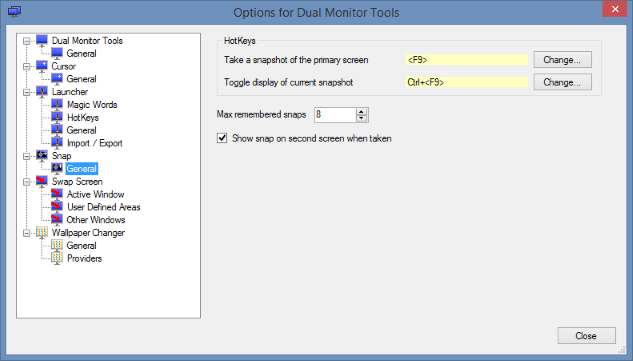
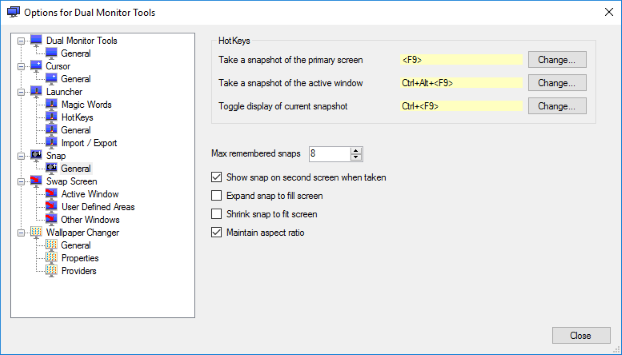
v2.2
Snap options reset when showing new snap
WallpaperChanger, if image not available, properties are cleared
Updated website

git-svn-id: svn://svn.code.sf.net/p/dualmonitortool/code/trunk@403 fb2ba5e6-08d8-4d4c-bdde-3d14dca355d2

Changed region(s): [[0.0, 0.0, 1.0, 1.0], [0.6415, 0.1239, 0.9469, 0.3408], [0.6415, 0.1549, 0.7026, 0.1859]]

diff --git a/Web/dmt_snap.html b/Web/dmt_snap.html
@@ -58,7 +58,7 @@
 	DMT Snap
 </p>
 
-<p>Snap allows you to capture the image on the primary monitor and display it on the secondary monitor by the use of a user defined hotkey. 
+<p>Snap allows you to capture the image on the primary monitor or of the active window and display it on the secondary monitor by the use of user defined hotkeys. 
 This works with both normal window applications and some full screen applications like games.</p>
 <p>You can take multiple snapshots and review them later and copy them to the clipboard or save them as PNG files.</p>
 
@@ -67,9 +67,39 @@ This works with both normal window applications and some full screen application
 
 <img src="Images/dmt_snap_general.png" alt="Snap" />
 
-<p>Amongst these options is the option to allow you to specify a hotkey to take the snap.</p>
+<p class="SubHeading2"><a name="SnapPrimary">Take a snapshot of the primary screen</a></p>
 
 <p>Pressing the hotkey at any time will capture the image on the primary monitor and display it on your second monitor, assuming you have the <i>Show snap on second screen when taken</i> checked in the options dialog.</p>
+
+<p class="SubHeading2"><a name="SnapActive">Take a snapshot of the active window</a></p>
+
+<p>Pressing the hotkey at any time will capture the image of the active window and display it on your second monitor, assuming you have the <i>Show snap on second screen when taken</i> checked in the options dialog.</p>
+
+<p class="SubHeading2"><a name="ToggleShowSnap">Toggle display of current snapshot</a></p>
+
+<p>Pressing the hotkey will toggle the display of the current snapshot on the second monitor.</p>
+
+<p class="SubHeading2"><a name="SnapHistory">Max remembered snaps</a></p>
+
+<p>This is the maximum number of snaps that will be remembered. You can view any of the previous remembered snaps by using the context menu on the snap screen when it is shown.</p>
+
+<p class="SubHeading2"><a name="ShowSnap">Show snap on second screen when taken</a></p>
+
+<p>If selected, then when when a snap is taken, then the snap window will also be shown on the second screen if it is not already shown.</p>
+
+<p class="SubHeading2"><a name="ExpandSnap">Expand snap to fill screen</a></p>
+
+<p>If the size of the snap is smaller than the size of your second screen, then this will allow it to grow to fill the second screen.</p>
+
+<p class="SubHeading2"><a name="ShrinkSnap">Shrink snap to fit screen</a></p>
+
+<p>If the size of the snap is bigger than the size of your second screen, then this will shrink it so that it is all visible.
+If this is not selected and the snap is larger than your second screen, then you can use the cursor to drag the image around to view it all.</p>
+
+<p class="SubHeading2"><a name="MaintainAspectRatio">Maintain aspect ratio</a></p>
+
+<p>This is used with the above 2 options to know if the aspect ratio should be maintained when shrinking/expanding the image.</p>
+
 
 <p class="SubHeading">The Snap</p>
 
@@ -81,7 +111,7 @@ until the snap is hidden.</p>
 	<li>Show Snap - This is a checked item which allows you to display/hide the current snap on the second monitor.</li>
 	<li>Snaps - Shows a list of your previous snaps.  Clicking on one will make it the current snap and display it on the second monitor.
 	The most recent snap will be at the top of the list.</li>
-	<li>Copy - Copies the current snap to the clipboard.</li>
+	<li>Copy - Copies the current snap to the clipboard.</li><F12>
 	<li>Save As - Saves the current snap to a PNG file.</li>
 </ul>
 
@@ -100,7 +130,7 @@ until the snap is hidden.</p>
 		<div id="footer-left">
 		</div>
 		<div id="footer-right">
-		last updated 15 Jun 2015
+		last updated 12 Dec 2015
 		</div>
 	</div>
 </div>

diff --git a/Web/dmt_wallpaperchanger.html b/Web/dmt_wallpaperchanger.html
@@ -106,7 +106,8 @@ to be chosen from the provider with a weight of 4 than from the provider with a 
 
 <p>Three provides are currently supported:</p>
 <ul>
-	<li>Local disk - provides images saved in a folder (with an option to look in sub-folders) on an attached drive. If you have some monitors in portrait orientation, then you can specify a different folder for images to be used for these monitors.</li>
+	<li>Local disk - provides images saved in a folder (with an option to look in sub-folders) on an attached drive. 
+	You can also specify different directories for individual monitors and for any monitors in portrait orientation.</li>
 	<li>Flickr - provides images from <a href="https://www.flickr.com/" target="_blank">www.flickr.com</a>.
 	You will need an API key from flickr for this.  See below for more details.</li>
 	<li>Unspash - provides images from <a href="http://www.unsplash.com" target="_blank">www.unsplash.com</a>.
@@ -137,7 +138,7 @@ When you have the key, you can select flickr as a provider from DMT's list of pr
 		<div id="footer-left">
 		</div>
 		<div id="footer-right">
-		last updated 1 Nov 2015
+		last updated 12 Dec 2015
 		</div>
 	</div>
 </div>

diff --git a/Web/history.html b/Web/history.html
@@ -54,6 +54,17 @@
 <div id="content">
 
 
+<p class="SubHeading">19 Dec 2015 - release 2.2</p>
+
+<p><b>DMT</b></p>
+<ul>
+	<li>Magic words can be run from a batch file with: DMT "DMT:Launcher:Activate magic-word".</li>
+	<li>Snap hotkey added to snap active window.</li>
+	<li>Snap snap shown same size (pixel basis) as original with options to scale.</li>
+	<li>WallpaperChanger LocalDisk can specify different directories for each monitor.</li>
+	<li>WallpaperChanger LocalDisk can specify a single image rather than a directory.</li>
+</ul>
+
 <p class="SubHeading">1 Nov 2015 - release 2.1</p>
 
 <p><b>DMT</b></p>
@@ -305,7 +316,7 @@ DisMon has been dropped for the time being.</p>
 		<div id="footer-left">
 		</div>
 		<div id="footer-right">
-		last updated 1 Nov 2015
+		last updated 12 Dec 2015
 		</div>
 	</div>
 </div>

diff --git a/Web/download.html b/Web/download.html
@@ -59,7 +59,7 @@
 <p>If you do not have a suitable version of .NET installed, then assuming your version of Windows supports it, 
 you can install it from Windows Update.  You should be able to find it in the
 <i>Optional Updates</i> section.</p>
-<p>Dual Monitor Tools has been tested and found to work on XP, Vista, Windows 7, 8/8.1 and on the Windows 10 Technical Preview.</p>
+<p>Dual Monitor Tools has been tested and found to work on XP, Vista, Windows 7, 8, 8.1 and 10.</p>
 
 <p class="SubHeading">Download</p>
 
@@ -103,7 +103,7 @@ the tools and their data files.</p>
 		<div id="footer-left">
 		</div>
 		<div id="footer-right">
-		last updated 14 Jun 2015
+		last updated 12 Dec 2015
 		</div>
 	</div>
 </div>

diff --git a/Web/dmt.html b/Web/dmt.html
@@ -290,6 +290,13 @@ you would add the following command to the batch file:</p>
 
 
 </table>
+
+<p>You can also run magic words from the command line with:</p>
+
+<p>DMT "DMT:Launcher:Activate magic-word-here"</p>
+
+<p>Note the command and the magic word are within a single set of double quotes.</p>
+
 </div>
 
 </div>
@@ -297,7 +304,7 @@ you would add the following command to the batch file:</p>
 		<div id="footer-left">
 		</div>
 		<div id="footer-right">
-		last updated 17 Aug 2015
+		last updated 12 Dec 2015
 		</div>
 	</div>
 </div>

diff --git a/DMT/DMT/Modules/WallpaperChanger/WallpaperChangerPropertiesOptionsPanel.cs b/DMT/DMT/Modules/WallpaperChanger/WallpaperChangerPropertiesOptionsPanel.cs
@@ -144,17 +144,25 @@ namespace DMT.Modules.WallpaperChanger
 		void ShowSourceImageInfo()
 		{
 			ProviderImage providerImage = _wallpaperChangerModule.Desktop.GetProviderImage(_selectedScreenIndex);
-			if (providerImage != null)
+			if (providerImage == null)
+			{
+				// remove any existing info
+				ClearLink(linkLabelProvider);
+				ClearLink(linkLabelSource);
+				ClearLink(linkLabelPhotographer);
+				ClearLink(linkLabelDetails);
+			}
+			else
 			{
 				ShowLink(linkLabelProvider, providerImage.Provider, providerImage.ProviderUrl);
 				ShowLink(linkLabelSource, providerImage.Source, providerImage.SourceUrl);
 				ShowLink(linkLabelPhotographer, providerImage.Photographer, providerImage.PhotographerUrl);
 				ShowLink(linkLabelDetails, providerImage.MoreInfo, providerImage.MoreInfoUrl);
 
-				linkLabelProvider.Text = providerImage.Provider;
-				linkLabelSource.Text = providerImage.Source;
-				linkLabelPhotographer.Text = providerImage.Photographer;
-				linkLabelDetails.Text = providerImage.MoreInfo;
+				//linkLabelProvider.Text = providerImage.Provider;
+				//linkLabelSource.Text = providerImage.Source;
+				//linkLabelPhotographer.Text = providerImage.Photographer;
+				//linkLabelDetails.Text = providerImage.MoreInfo;
 			}
 		}
 
@@ -166,6 +174,12 @@ namespace DMT.Modules.WallpaperChanger
 			{
 				linkLabel.Links.Add(0, text.Length, url);
 			}
+		}
+
+		void ClearLink(LinkLabel linkLabel)
+		{
+			linkLabel.Links.Clear();
+			linkLabel.Text = "";
 		}
 
 		private void linkLabel_LinkClicked(object sender, LinkLabelLinkClickedEventArgs e)

diff --git a/DMT/DMT/Modules/Snap/SnapModule.cs b/DMT/DMT/Modules/Snap/SnapModule.cs
@@ -214,10 +214,14 @@ namespace DMT.Modules.Snap
 			SnapForm snapForm = GetSnapForm();
 			snapForm.ShowImage(snappedImage);
 
+			// whenever we take a snap, we reset the snap zooming to match our settings
+			// TODO: it can get a bit confusing have 2 copies of the settings.  Should they be permanently linked? 
+			snapForm.SetScaling(ExpandSnap, ShrinkSnap, MaintainAspectRatio);
+
 			Snap snap = new Snap(snappedImage);
 			SnapHistory.Add(snap);
 
-			if (AutoShowSnap)
+			if (AutoShowSnap || snapForm.Visible)
 			{
 				ShowLastSnap();
 			}

diff --git a/DMT/DMT/Modules/Snap/SnapForm.cs b/DMT/DMT/Modules/Snap/SnapForm.cs
@@ -54,6 +54,14 @@ namespace DMT.Modules.Snap
 			//pictureBox.Size = image.Size;
 		}
 
+		public void SetScaling(bool expandSnap, bool shrinkSnap, bool maintainAspectRatio)
+		{
+			_expandSnap = expandSnap;
+			_shrinkSnap = shrinkSnap;
+			_maintainAspectRatio = maintainAspectRatio;
+			UpdateScaleMenuItems();
+		}
+
 		public void ShowAt(Rectangle rectangle)
 		{
 			this.WindowState = FormWindowState.Normal;	// necessary, or Location won't work

diff --git a/DMT/DMT/Properties/AssemblyInfo.cs b/DMT/DMT/Properties/AssemblyInfo.cs
@@ -32,5 +32,5 @@ using System.Runtime.InteropServices;
 // You can specify all the values or you can default the Build and Revision Numbers 
 // by using the '*' as shown below:
 // [assembly: AssemblyVersion("1.0.*")]
-[assembly: AssemblyVersion("2.1.0.0")]
-[assembly: AssemblyFileVersion("2.1.0.0")]
+[assembly: AssemblyVersion("2.2.0.0")]
+[assembly: AssemblyFileVersion("2.2.0.0")]

diff --git a/DualWallpaper/DualWallpaper/Properties/AssemblyInfo.cs b/DualWallpaper/DualWallpaper/Properties/AssemblyInfo.cs
@@ -29,5 +29,5 @@ using System.Runtime.InteropServices;
 //      Build Number
 //      Revision
 //
-[assembly: AssemblyVersion("2.1.0.0")]
-[assembly: AssemblyFileVersion("2.1.0.0")]
+[assembly: AssemblyVersion("2.2.0.0")]
+[assembly: AssemblyFileVersion("2.2.0.0")]
